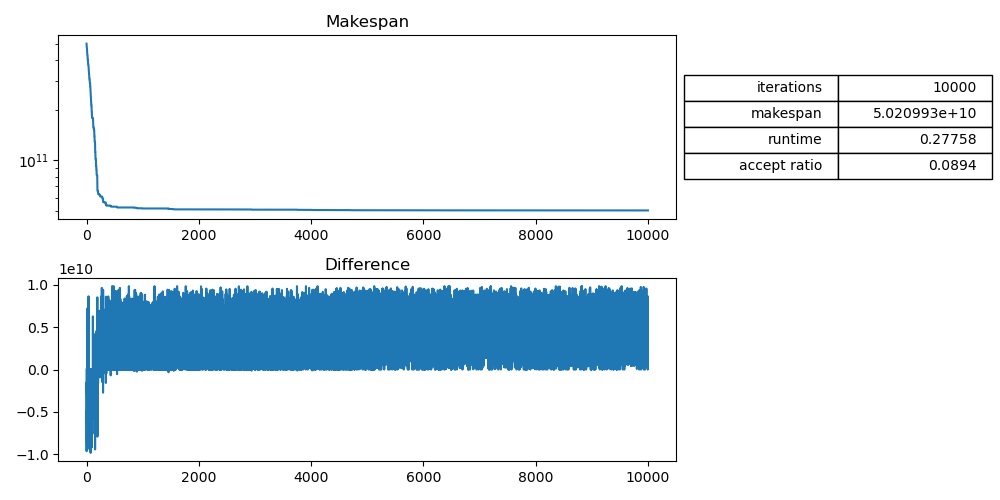
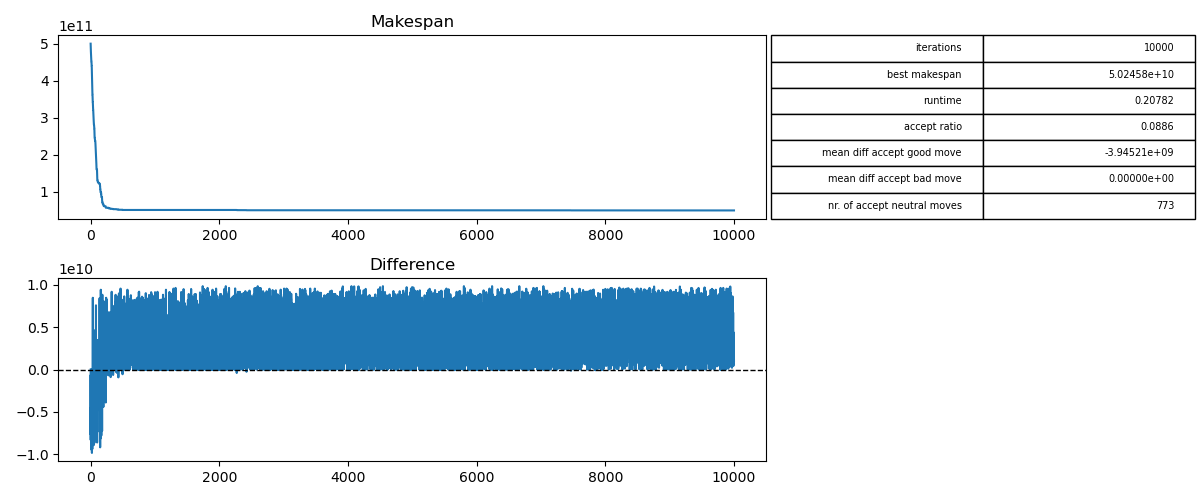
Figures changed; makespan y-axis log->linear, difference y=0-line

diff --git a/simann/experiment.py b/simann/experiment.py
@@ -84,13 +84,14 @@ class Experiment:
 
         ax0 = fig.add_subplot(gs[0, 0])
         plt.title('Makespan')
-        plt.yscale('log')
+        # plt.yscale('log')
         ax0.plot(self.makespan_lst)
 
         ax1 = fig.add_subplot(gs[1, 0])
         plt.title('Difference')
         plt.yscale('linear')
         ax1.plot(self.difference_lst)
+        ax1.axhline(y=0, color='k', linestyle='--', linewidth=1)
 
         ax2 = fig.add_subplot(gs[0, 1])
         table_text = [
